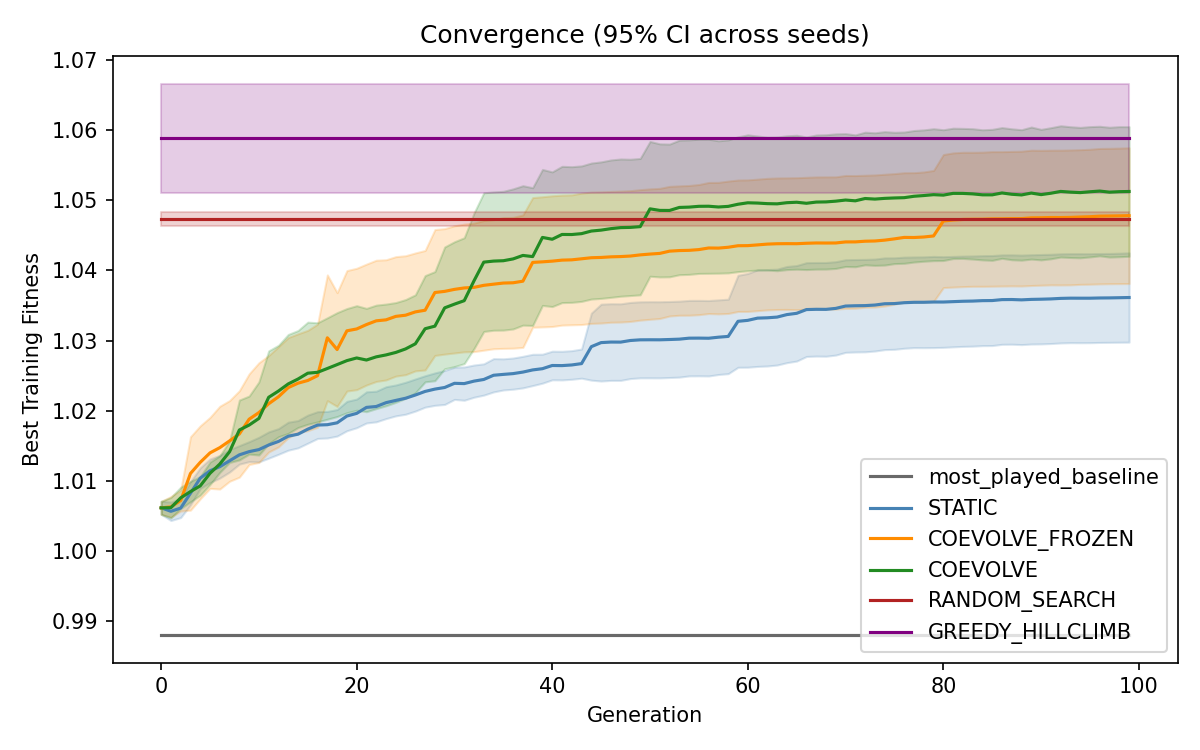
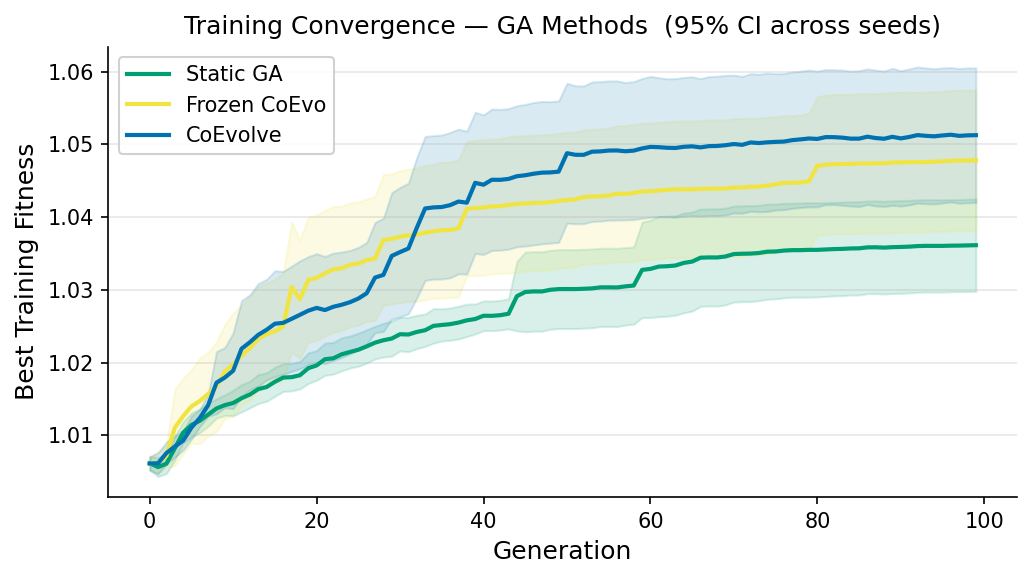
Fixed a bug in analyze

diff --git a/src/analyze.py b/src/analyze.py
@@ -818,7 +818,7 @@ def plot_repertoire_structure(runs: list[dict], out_path: str) -> None:
     width = 0.35
     labels_m = [_METHOD_LABELS[m] for m in METHODS_MAIN]
 
-    for ax, (key_w, key_b, ylabel, title, show_budget) in [
+    for ax, key_w, key_b, ylabel, title, show_budget in [
         (axes[0], "w_comm",  "b_comm",  "Committed Moves",     "(a) Budget Utilization",  True),
         (axes[1], "w_reach", "b_reach", "Positions in Subgraph","(b) Subgraph Coverage",  False),
     ]: